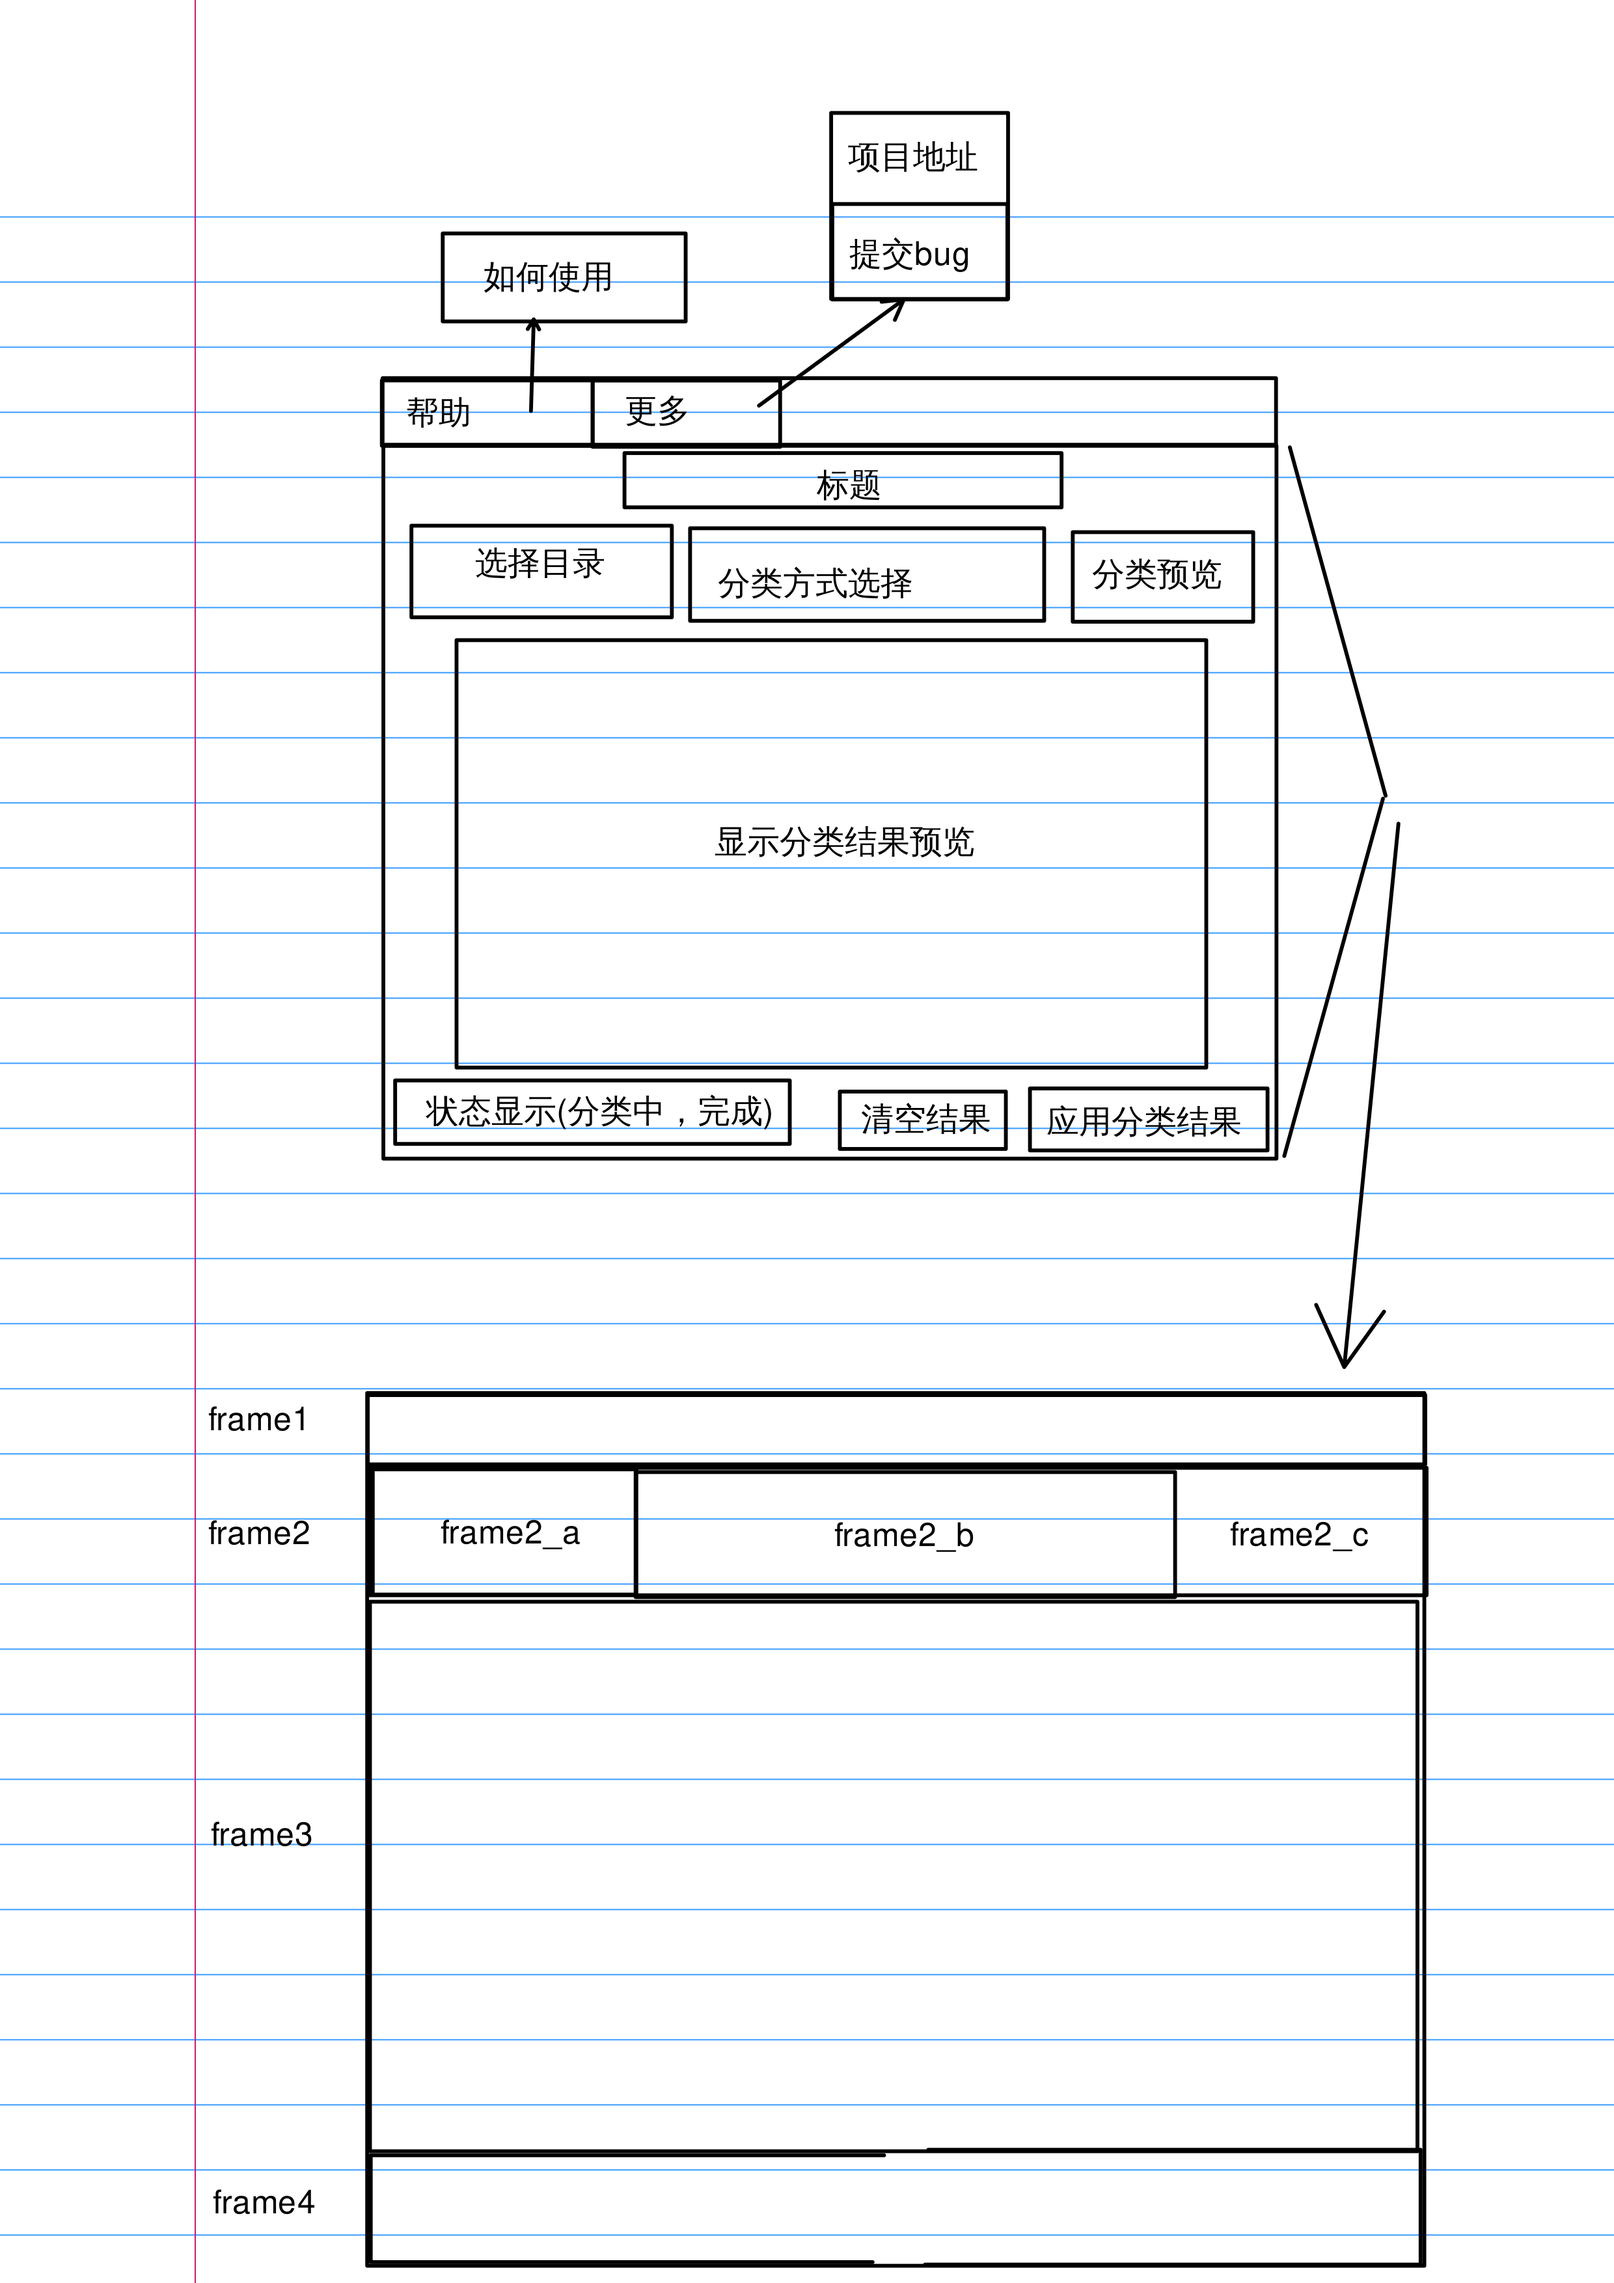
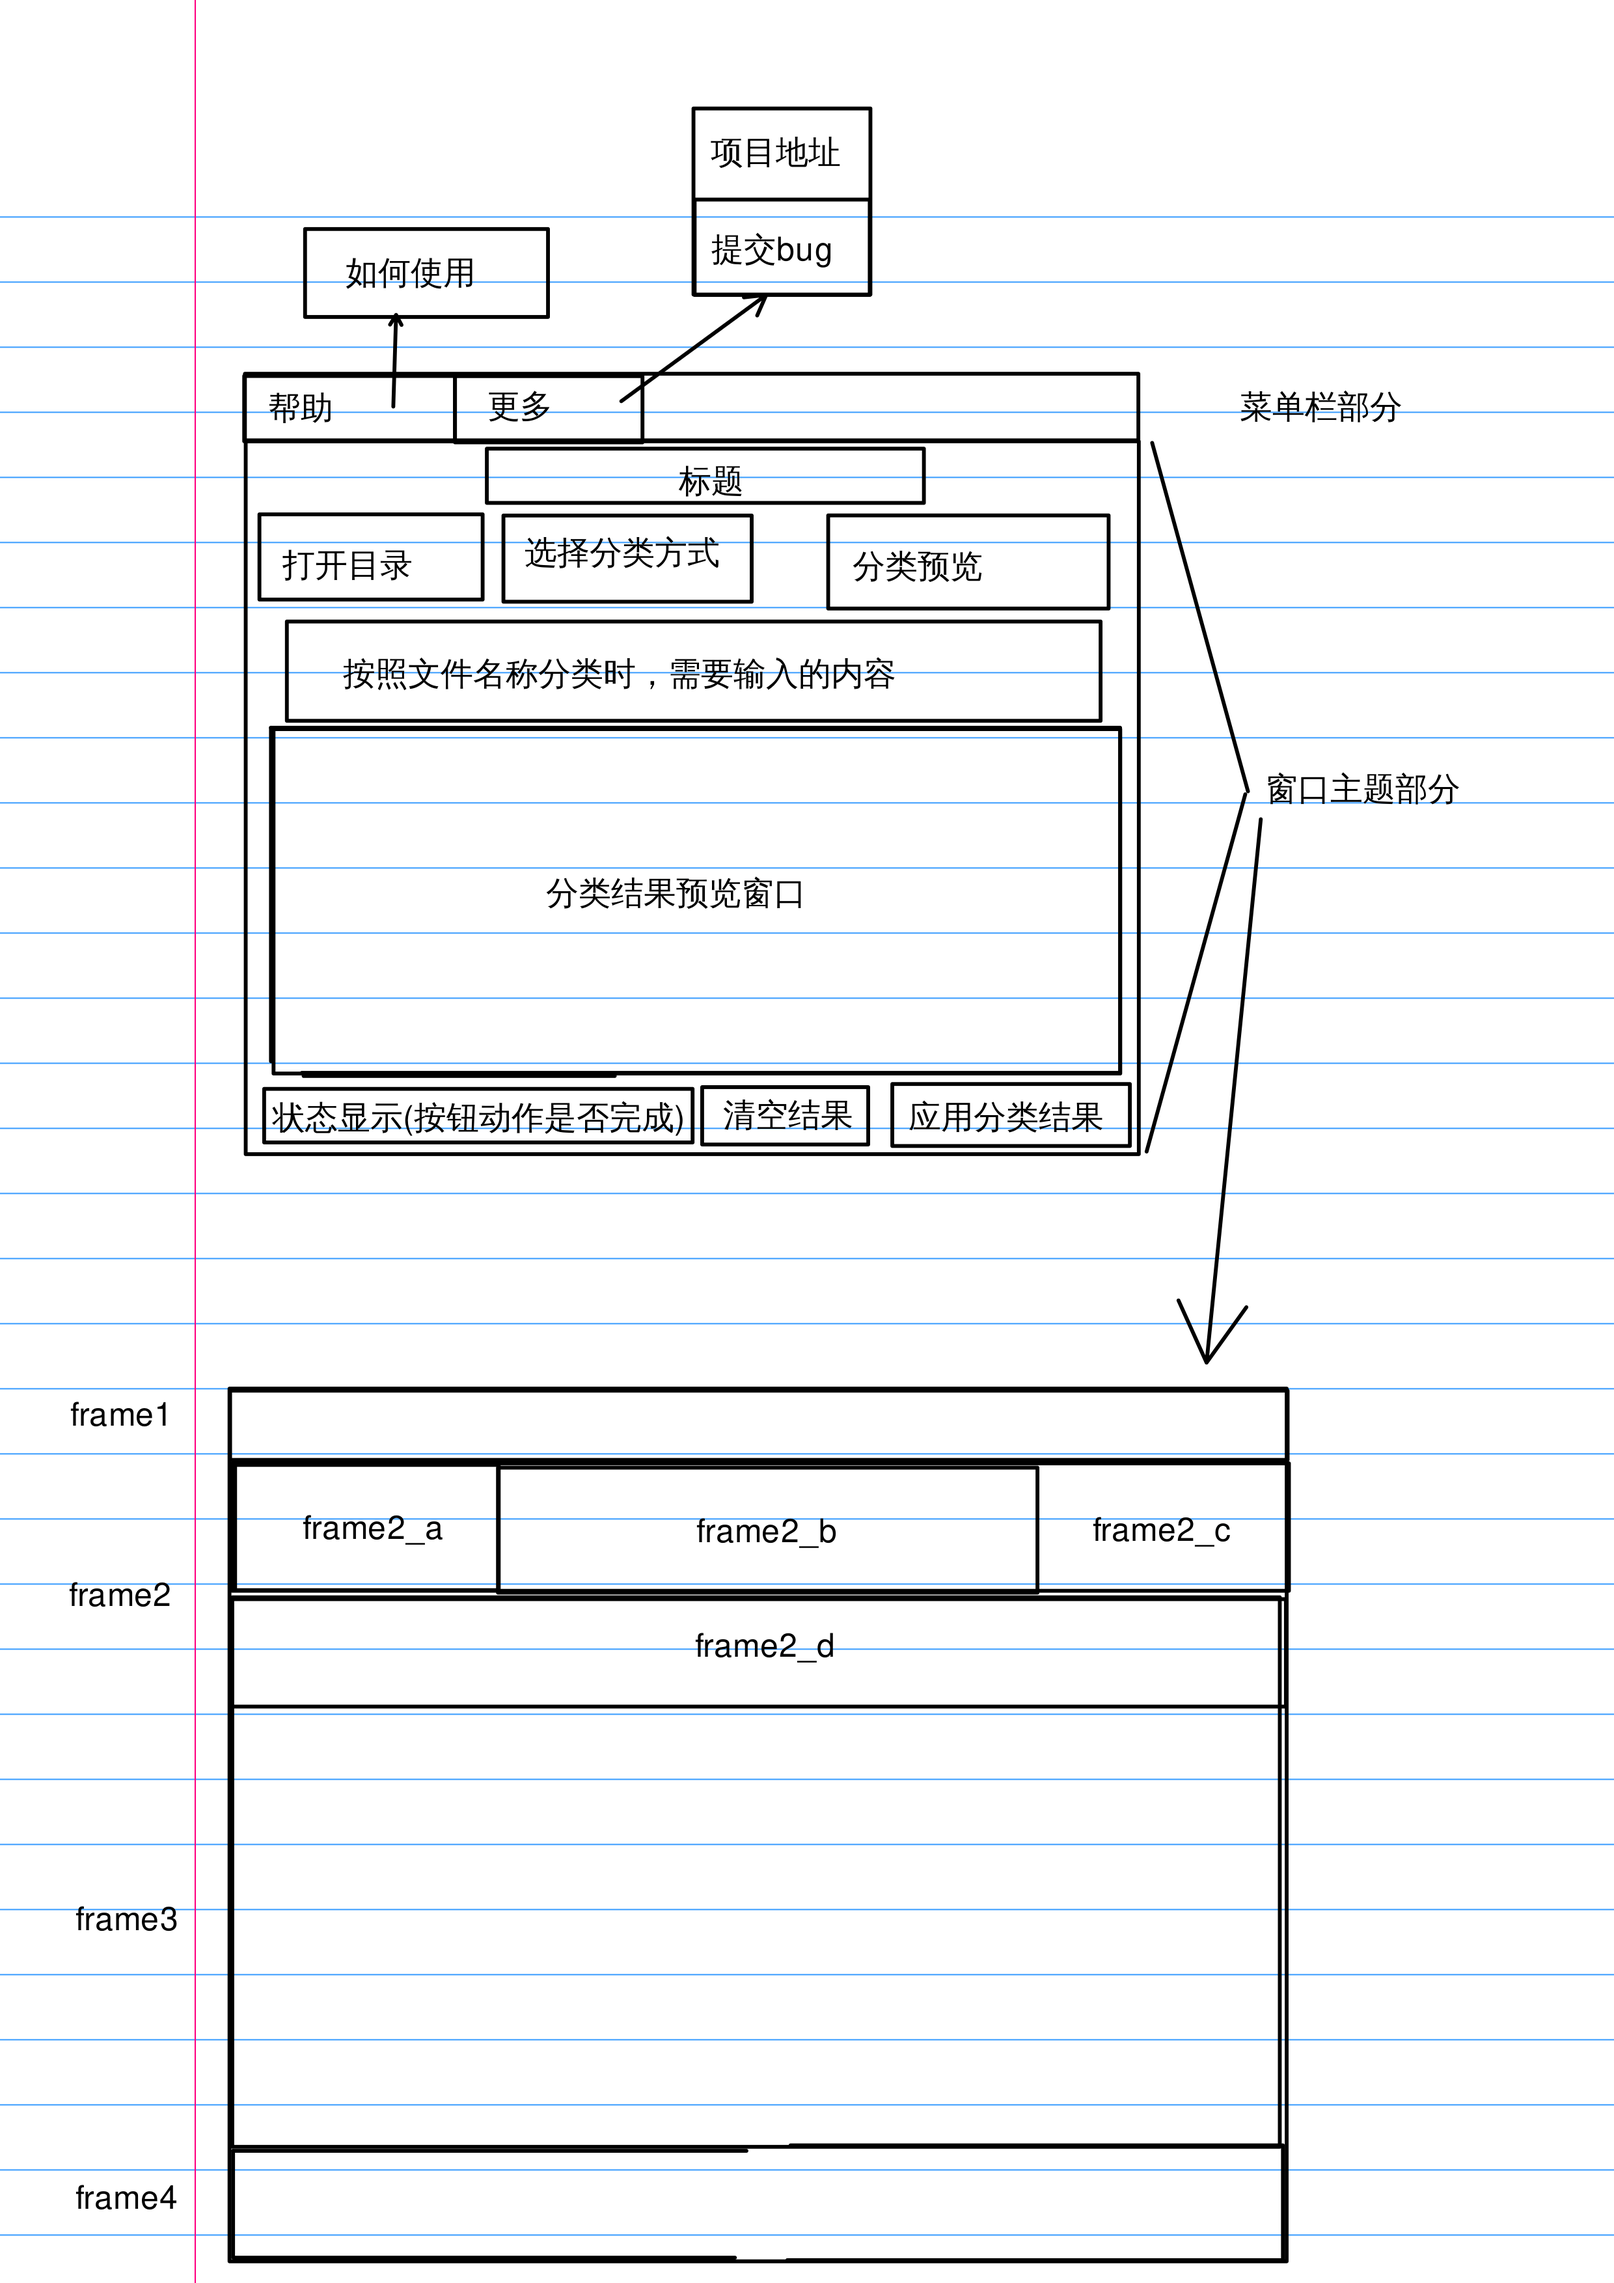
基本实现所有需求

diff --git a/ui.py b/ui.py
@@ -35,6 +35,8 @@ class MyWindow(tk.Tk):
 
         frame2 = tk.Frame(self)
         frame2.pack(side=tk.TOP, fill=tk.X, expand=True)
+        frame2_d = tk.Frame(frame2)
+        frame2_d.pack(side=tk.BOTTOM, fill=tk.BOTH)
         frame2_a = tk.Frame(frame2)
         frame2_a.pack(side=tk.LEFT)
         frame2_b = tk.Frame(frame2)
@@ -87,8 +89,7 @@ class MyWindow(tk.Tk):
             frame2_b,
             text='根据给定文件名称分类',
             variable=self.selection,
-            value=1,
-            command=self.set_content_list
+            value=1
         )
         select_way_button2.pack(side=tk.BOTTOM)
 
@@ -99,6 +100,16 @@ class MyWindow(tk.Tk):
             command=self.preview
         )
         preview_button.pack(side=tk.LEFT)
+
+        # 分类依据标签
+        content_lable = tk.Label(
+            frame2_d,
+            text='依据文件名分类时, 在此行输入文件名中包含的字符串, 使用英文分号分割'
+        )
+        content_lable.pack(side=tk.TOP, fill=tk.X)
+        # 分类依据输入框
+        self.content_names = tk.Entry(frame2_d)
+        self.content_names.pack(fill=tk.X)
 
         # 分类后结果展示
         self.show_list = tk.Text(frame3)
@@ -176,7 +187,7 @@ class MyWindow(tk.Tk):
     @change_status
     def set_content_list(self):
         """设置分类名称"""
-        pass
+        self.content_list = self.content_names.get().split(';')
 
     @change_status
     def preview(self):
@@ -184,9 +195,6 @@ class MyWindow(tk.Tk):
         点击后在预览框内显示分类结果(json 格式)
         """
         self.clean_show_list()
-        # content_list_in_text = self.show_list.get('0.0', 'end-1c')
-        content_list = ['111', '2', '33']
-        # print(content_list_in_text)
         if self.selection.get() == 0:
             self.clfy_ins.sort_by_extension()
             preview_data = json.dumps(
@@ -195,7 +203,8 @@ class MyWindow(tk.Tk):
                 indent=4
             )
         else:
-            self.clfy_ins.sort_by_name(content_list)
+            self.set_content_list()
+            self.clfy_ins.sort_by_name(self.content_list)
             preview_data = json.dumps(
                 self.clfy_ins.name_sorted,
                 ensure_ascii=False,
@@ -230,7 +239,7 @@ class MyWindow(tk.Tk):
         """应用分类结果按钮
         点击后弹出提示框确认, 确认后实施分类
         """
-        msg_title = '是否确认'
+        msg_title = '提示'
         msg_content = '这将会改变原有的目录结构, 你确定要继续吗?'
         if tk.messagebox.askokcancel(title=msg_title, message=msg_content):
             if self.selection.get() == 0:

diff --git a/classify.py b/classify.py
@@ -2,6 +2,7 @@
 import os
 import shutil
 import json
+from typing import List
 
 
 class Classify:
@@ -16,7 +17,7 @@ class Classify:
         extension_sorted (dict): 根据扩展名分类后的结果
         name_sorted (dict): 根据名称所含字段分类后的结果
     """
-    def __init__(self, target_dir):
+    def __init__(self, target_dir: str):
         """初始化
         Args:
             target_dir (str): 需要进行文档分类的根目录
@@ -37,7 +38,7 @@ class Classify:
                     self.extension_sorted[file_ext] = []
                 self.extension_sorted[file_ext].append(path_to_file)
 
-    def sort_by_name(self, content_list):
+    def sort_by_name(self, content_list: List[str]):
         """根据文件名称中包含的字段分类
         Args:
             content (set[str]): 需要分类的字段集
@@ -99,7 +100,7 @@ class Classify:
                 else:
                     shutil.move(filename, destination)
 
-    def export_dir(self, chosen, filename):
+    def export_dir(self, chosen: int, filename: str):
         """导出归类文件的目录结构到纯文本文件中
         Args:
             chosen (int): 0 表示使用的是文件扩展名归类, 否则是按名称归类
